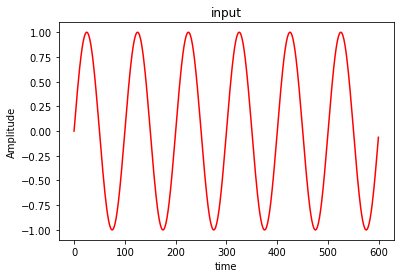
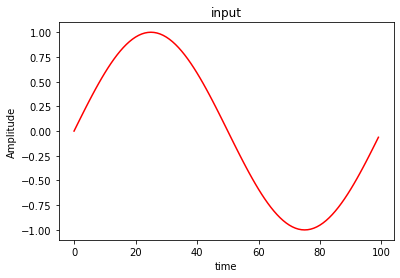
Add files via upload

diff --git a/ASK1.py b/ASK1.py
@@ -4,9 +4,12 @@ Binary ASK
 """
 from numpy import arange,linspace,cos,pi,sin
 import matplotlib.pyplot as plt
-import math
+#import math
+#import random
+
+
 X=[]
-x=[1,1,1,0,1,0]
+x=[1,0,1,0,1,0]
 for i in range(len(x)):
     if x[i] == 1:
         X.append(1)
@@ -14,7 +17,7 @@ for i in range(len(x)):
         X.append(0)
         
 
-t=arange(0,len(x),0.01)
+t = arange(0,1,0.01)
 phi=[]
 for i in range (0,len(t)):
     phi.append(sin(2*pi*2*t[i]))
@@ -30,11 +33,12 @@ plt.xlabel('time')
 plt.ylabel('Amplitude')
 plt.show()
 
-plt.plot(t,phi,'k')
+plt.plot(phi,'k')
 plt.title('sinusoidal wave')
 plt.xlabel('time')
 plt.ylabel('Amplitude')
 plt.show()
+
 
 plt.plot(op)
 plt.title('ASK waveform')

diff --git a/PSK1.py b/PSK1.py
@@ -6,8 +6,9 @@ Binary PSK
 from numpy import arange,linspace,cos,pi,sin
 import matplotlib.pyplot as plt
 import math
+
 X=[]
-x=[1,1,1,0,1,0]
+x=[1,0,1,0,1,0]
 for i in range(len(x)):
     if x[i] == 1:
         X.append(1)
@@ -15,7 +16,7 @@ for i in range(len(x)):
         X.append(-1)
         
 
-t=arange(0,len(x),0.01)
+t=arange(0,1,0.01)
 phi=[]
 for i in range (len(t)):
     phi.append(sin(2*pi*2*t[i]))
@@ -31,7 +32,7 @@ plt.xlabel('time')
 plt.ylabel('Amplitude')
 plt.show()
 
-plt.plot(t,phi,'k')
+plt.plot(phi,'k')
 plt.title('sinusoidal wave')
 plt.xlabel('time')
 plt.ylabel('Amplitude')

diff --git a/BFSK.py b/BFSK.py
@@ -7,7 +7,7 @@ Created on Mon Jul  1 02:25:51 2019
 
 from numpy import arange,linspace,cos,pi,sin
 import matplotlib.pyplot as plt
-import math
+
 X=[]
 x=[1,0,1,0,1,0]
 for i in range(len(x)):
@@ -16,11 +16,11 @@ for i in range(len(x)):
     elif x[i] == 0:
         X.append(0)
 
-t=arange(0,len(x),0.01)
+t=arange(0,1,0.01)
 op1=[]
 op2=[]
 for j in range(len(t)):
-    op1.append(sin(2*pi*2*t[j]))
+    op1.append(sin(2*pi*3*t[j]))
     
 for k in range(len(t)):
     op2.append(sin(2*pi*1*t[k]))
